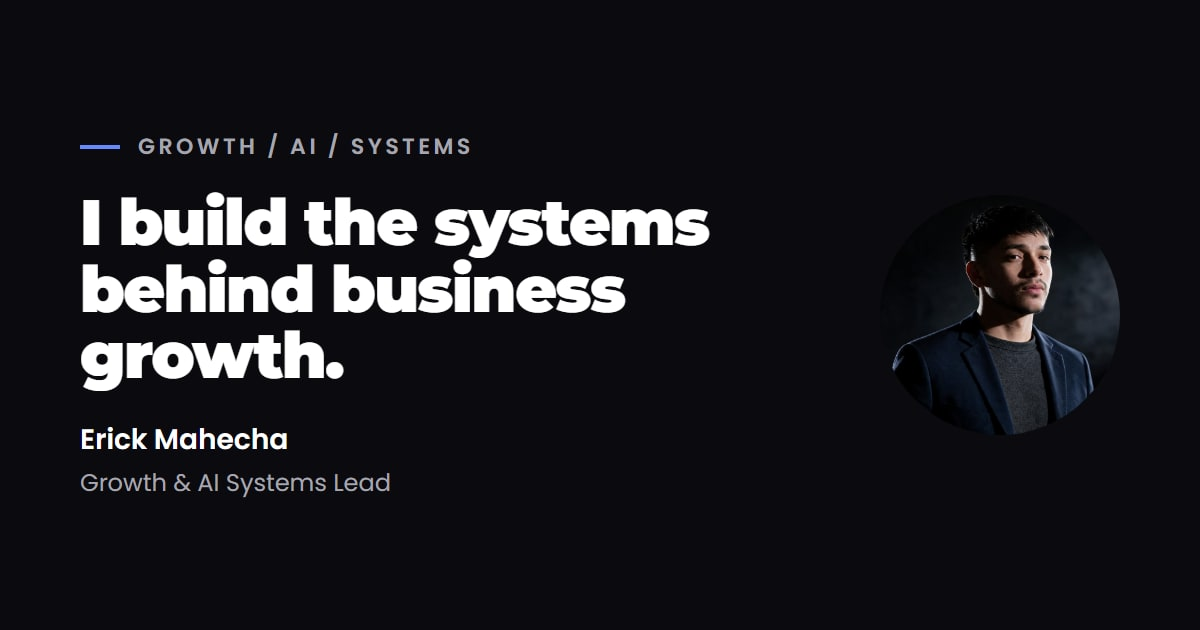
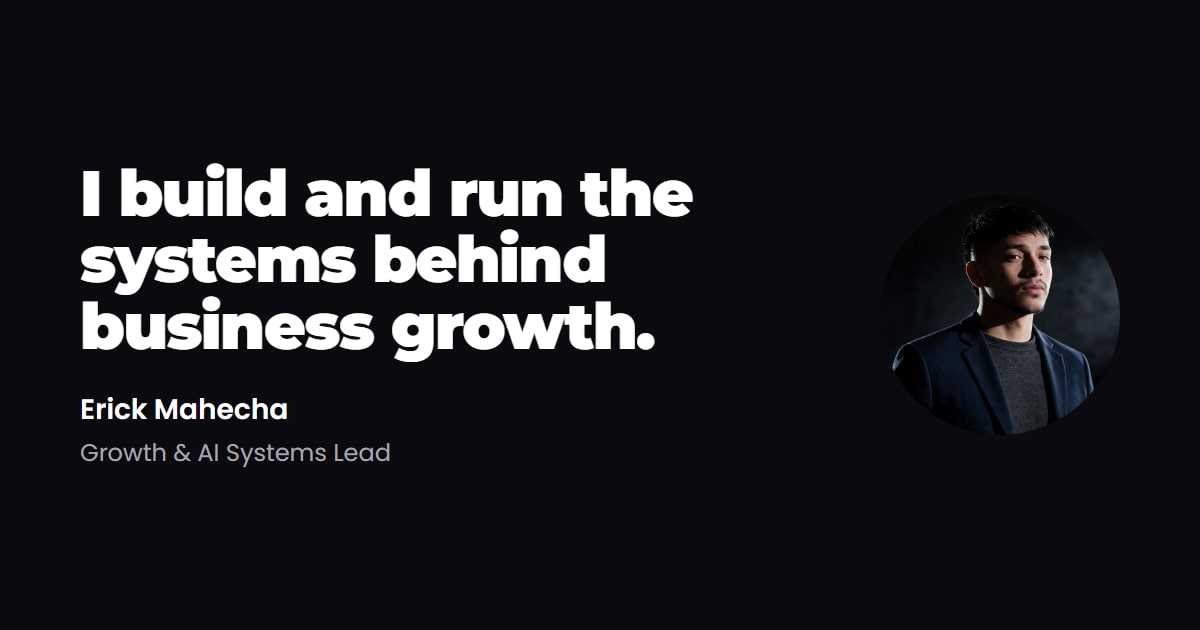
feat: round 8 — the new message, what the business gained, a social preview without the kicker
The hero, the Home's description, /work, ErickBot and the social preview now say
"I build and run the systems behind business growth." The headline's size drops
slightly, so it takes three lines on phones and four on desktop, and the bench
stays where it was in the first screen. Four cases gain a line on what the
business gained, each from facts the case already publishes, with no figures.
The validation list gains its four rows. Three formatting errors already on main
are fixed, so `biome check src` passes on an LF checkout.

Changed region(s): [[0.0617, 0.2111, 0.6167, 0.7841]]

diff --git a/tests/e2e/mensaje-impacto.spec.ts b/tests/e2e/mensaje-impacto.spec.ts
@@ -1,0 +1,150 @@
+import type { Page } from "@playwright/test";
+import { expect, test } from "./fixtures";
+
+// Message and impact round (docs/design/rediseno-2026/mensaje-impacto-encargo.md):
+// the hero's headline and lede, the Home's description, the lede of /work and
+// the line "What the business gained" in four cases. The second half guards
+// what must not change, so it passes on the previous main too: the Home's
+// title, the hero's two keys, no "Experience & Resume", and the bench inside
+// the first screen of a 360 x 780 phone.
+
+const INTRO = '[class*="IntroLoader_overlay"]';
+const HEADLINE = "I build and run the systems behind business growth.";
+const LEDE =
+  "From growth operations and AI automation to production software. I lead the strategy, architecture and delivery of systems businesses depend on.";
+const DESCRIPTION =
+  "Erick Mahecha, Growth & AI Systems Lead. From growth operations and AI automation to production software: strategy, architecture and delivery.";
+const WORK_LEDE = "AI automation, growth operations and production software, built and run.";
+
+const BUSINESS_LINES: Record<string, string> = {
+  "scope-multi-client-platform":
+    "Incentiva can now serve a second financial client on the platform it already runs, with each client's data kept apart. Adding a campaign became configuration instead of a project.",
+  "chatflow-whatsapp-ai-platform":
+    "Incentiva runs several client lines on one platform, and a small team can change it with confidence that no client will notice. Colmaíz's commercial team now has its own view of its conversations and uses it daily.",
+  "scope-ios-launch":
+    "Field staff on iPhones can now work in the app, and Incentiva owns what it needs to keep shipping it. When a coordinator reports a problem from the field, the answer is a version and a date.",
+  "directv-click-to-whatsapp":
+    "Incentiva owns a digital sales channel it can read: each lead arrives pre-qualified and with consent, and each sale reports back to the ad platform that produced it. The advisor who closes the sale gets only the conversations worth closing.",
+};
+
+async function openHome(page: Page) {
+  await page.goto("/");
+  await expect(page.locator(INTRO)).toHaveCount(0, { timeout: 15_000 });
+}
+
+test.describe("the new message", () => {
+  test("the hero carries the exact headline and lede", async ({ page }) => {
+    await openHome(page);
+    await expect(page.locator("#hero-title")).toHaveText(HEADLINE);
+    const hero = page.locator("section", { has: page.locator("#hero-title") });
+    await expect(hero.locator('[class*="hero_offer"]')).toHaveText(LEDE);
+  });
+
+  test("the Home's description is the new one, for search and for shared links", async ({
+    page,
+  }) => {
+    await page.goto("/");
+    await expect(page.locator('meta[name="description"]')).toHaveAttribute("content", DESCRIPTION);
+    await expect(page.locator('meta[property="og:description"]')).toHaveAttribute(
+      "content",
+      DESCRIPTION,
+    );
+  });
+
+  test("/work opens with the new sentence and keeps the case count", async ({ page }) => {
+    await page.goto("/work");
+    const lede = page.locator('[class*="work_lede"]');
+    await expect(lede).toContainText(WORK_LEDE);
+    await expect(lede).toHaveText(new RegExp(`^${WORK_LEDE} \\S+ cases, newest first\\.$`));
+  });
+
+  for (const [slug, text] of Object.entries(BUSINESS_LINES)) {
+    test(`${slug} says what the business gained, right after its result`, async ({ page }) => {
+      await page.goto(`/work/${slug}`);
+      const line = page.locator("main p", {
+        has: page.locator("strong", { hasText: /^What the business gained:$/ }),
+      });
+      await expect(line).toHaveCount(1);
+      await expect(line).toHaveText(`What the business gained: ${text}`);
+      const previous = await line.evaluate((el) => el.previousElementSibling?.textContent ?? "");
+      expect(previous).toMatch(/^Result: /);
+      // No measured-sounding claims, and no figure of any kind (D35).
+      const said = await line.innerText();
+      expect(said).not.toMatch(/\b(reduced|saved|faster|fewer|increased|more efficient)\b/i);
+      expect(said).not.toMatch(/\d/);
+    });
+  }
+});
+
+test.describe("what must not change", () => {
+  test("the Home's title stays the umbrella title", async ({ page }) => {
+    await page.goto("/");
+    await expect(page).toHaveTitle("Erick Mahecha · Growth & AI Systems Lead");
+  });
+
+  test("the hero keeps its two keys and no others", async ({ page }) => {
+    await openHome(page);
+    const hero = page.locator("section", { has: page.locator("#hero-title") });
+    await expect(hero.getByRole("link")).toHaveCount(2);
+    await expect(hero.getByRole("link", { name: "Explore my work" })).toHaveAttribute(
+      "href",
+      "/work",
+    );
+    await expect(hero.getByRole("link", { name: "Book a call" })).toHaveAttribute(
+      "href",
+      /calendly\.com/,
+    );
+  });
+
+  for (const path of ["/", "/work"]) {
+    test(`${path} has no "Experience & Resume"`, async ({ page }) => {
+      await page.goto(path);
+      await expect(page.getByText("Experience & Resume")).toHaveCount(0);
+    });
+  }
+
+  // A phone context (overlay scrollbars, so the column is the full width). Only
+  // Chromium runs it: Firefox cannot emulate a phone, and the layout is the same.
+  test("on a 360 x 780 phone the bench starts in the first screen and the tablet out-sizes the text", async ({
+    browser,
+    browserName,
+    baseURL,
+  }) => {
+    test.skip(browserName !== "chromium", "phone emulation, measured in Chromium");
+    const context = await browser.newContext({
+      baseURL,
+      viewport: { width: 360, height: 780 },
+      isMobile: true,
+      hasTouch: true,
+      deviceScaleFactor: 2,
+    });
+    const page = await context.newPage();
+    await openHome(page);
+    await page.evaluate(() => document.fonts.ready);
+    const sizes = await page.evaluate(() => {
+      const textArea = (el: Element | null) => {
+        if (!el) return 0;
+        const range = document.createRange();
+        range.selectNodeContents(el);
+        const { width, height } = range.getBoundingClientRect();
+        return width * height;
+      };
+      const bench = document.querySelector('[class*="bench_bench"]')?.getBoundingClientRect();
+      const tablet = document.querySelector('[data-slot="screen"]')?.getBoundingClientRect();
+      return {
+        benchTop: bench?.top ?? Number.POSITIVE_INFINITY,
+        tabletBottom: tablet?.bottom ?? Number.POSITIVE_INFINITY,
+        tabletArea: (tablet?.width ?? 0) * (tablet?.height ?? 0),
+        headlineArea: textArea(document.querySelector("#hero-title")),
+        ledeArea: textArea(document.querySelector('[class*="hero_offer"]')),
+      };
+    });
+    await context.close();
+    expect(sizes.benchTop).toBeLessThan(780);
+    // The whole tablet is on screen, and neither text block is larger: it stays
+    // the page's LCP element.
+    expect(sizes.tabletBottom).toBeLessThanOrEqual(780);
+    expect(sizes.headlineArea).toBeLessThan(sizes.tabletArea);
+    expect(sizes.ledeArea).toBeLessThan(sizes.tabletArea);
+  });
+});

diff --git a/src/app/api/chatbot/prompt.ts b/src/app/api/chatbot/prompt.ts
@@ -111,5 +111,5 @@ ${contactLinks}
 
 ## RULES
 You can ONLY answer questions about Erick, his professional experience, skills, and projects, using EXCLUSIVELY the information provided above. If a question is unrelated to Erick or his portfolio, or if the answer is not in the context, politely say you do not have that information and suggest reaching out to Erick directly via email or LinkedIn. Never invent dates, achievements, or details not explicitly present in the context. Keep responses professional but approachable, and under 4 sentences.
-When you introduce Erick or yourself, present him as ${profile.name}, ${profile.role}: he builds the systems behind business growth, from acquisition and CRM automation to AI assistants and production software. Never describe him as a department or a team, and never claim he outperforms or replaces one. His official position is Operations Manager at Incentiva Group (${incentivaRole.timeframe}): use that title when you describe his experience or that job. His earlier positions keep the titles listed under WORK EXPERIENCE. At Incentiva Group he led projects for Nequi, Wompi, Colmaíz (Ingredion) and Samsung: Scope, Incentiva's custom app to run the Nequi and Wompi field teams; ChatFlow and the Colmaíz WhatsApp assistant; and the Samsung × LifeMiles WhatsApp chatbot. His work for them and for every other client listed above was done at Incentiva Group: always say so, and never present them as his own, freelance or direct clients. The DIRECTV channel was for Incentiva as an authorized DIRECTV dealer: never present DIRECTV as a client that hired him. The only client figures you may cite are 2M+ (more than 2 million) LifeMiles miles awarded to Samsung buyers through the WhatsApp chatbot he led at Incentiva Group (miles the chatbot awarded to buyers, never miles Erick earned), and the Colmaíz community's 35,000+ contacts and 6,000+ served. Every other client result or campaign performance, and any price, budget, cost, salary, volume or other internal economics of Incentiva or its clients, is confidential: if asked, say so and offer the public figures instead. Only talk about the clients and projects listed above; for any other client, project or tender, say you have no information to share about it.`;
+When you introduce Erick or yourself, present him as ${profile.name}, ${profile.role}: he builds and runs the systems behind business growth, from growth operations and AI automation to production software. Never describe him as a department or a team, and never claim he outperforms or replaces one. His official position is Operations Manager at Incentiva Group (${incentivaRole.timeframe}): use that title when you describe his experience or that job. His earlier positions keep the titles listed under WORK EXPERIENCE. At Incentiva Group he led projects for Nequi, Wompi, Colmaíz (Ingredion) and Samsung: Scope, Incentiva's custom app to run the Nequi and Wompi field teams; ChatFlow and the Colmaíz WhatsApp assistant; and the Samsung × LifeMiles WhatsApp chatbot. His work for them and for every other client listed above was done at Incentiva Group: always say so, and never present them as his own, freelance or direct clients. The DIRECTV channel was for Incentiva as an authorized DIRECTV dealer: never present DIRECTV as a client that hired him. The only client figures you may cite are 2M+ (more than 2 million) LifeMiles miles awarded to Samsung buyers through the WhatsApp chatbot he led at Incentiva Group (miles the chatbot awarded to buyers, never miles Erick earned), and the Colmaíz community's 35,000+ contacts and 6,000+ served. Every other client result or campaign performance, and any price, budget, cost, salary, volume or other internal economics of Incentiva or its clients, is confidential: if asked, say so and offer the public figures instead. Only talk about the clients and projects listed above; for any other client, project or tender, say you have no information to share about it.`;
 }

diff --git a/src/components/workbench/home/hero.module.scss b/src/components/workbench/home/hero.module.scss
@@ -69,14 +69,18 @@
 
 // The headline in Montserrat Black, sized from the text column in viewport
 // units (the column's width per layout) rather than as a size container, so
-// the first frame needs no extra container pass. Its longest word,
-// "infrastructure", is 7.24 em wide; 11 % of the column keeps it on one line
-// on phones with room to spare, and keeps the headline's area under the
-// bench tablet's, so the tablet stays the LCP element. It breaks evenly on its own, so it skips text-wrap:
-// balance (several line-breaking passes in the first frame).
+// the first frame needs no extra container pass. On phones its longest line,
+// "I build and run the", is 9.57 em wide: 10.2 % of the column keeps it whole,
+// so the headline takes three lines, the bench starts as high as before and
+// the headline's area stays under the bench tablet's, so the tablet stays the
+// LCP element. On desktop its longest line, "behind business", is 8.51 em wide:
+// the desktop size keeps it whole in the 389 px column of a 1024 px window, so
+// the headline takes four lines at every desktop width. It breaks evenly on its
+// own, so it skips text-wrap: balance (several line-breaking passes in the
+// first frame).
 .title {
   @include title;
-  font-size: clamp(34px, calc((100vw - 32px) * 0.11), 64px);
+  font-size: clamp(32px, calc((100vw - 32px) * 0.102), 64px);
   line-height: 1.04;
   letter-spacing: -0.025em;
 
@@ -87,7 +91,7 @@
   }
 
   @include from-desk {
-    font-size: clamp(34px, calc((min(100vw, 1280px) - 144px) * 0.054), 64px);
+    font-size: clamp(34px, calc((min(100vw, 1280px) - 144px) * 0.051), 64px);
     text-wrap: wrap;
   }
 }
@@ -95,6 +99,8 @@
 .offer {
   @include s-lede;
   max-width: 38ch;
+  // No last line of a single word at 375 px ("on.").
+  text-wrap: pretty;
 }
 
 .actions {

diff --git a/src/resources/faqChatbot.ts b/src/resources/faqChatbot.ts
@@ -10,7 +10,7 @@ export const faqData: FAQItem[] = [
     id: "current",
     question: "What does Erick do currently?",
     answer:
-      "Erick is a **Growth & AI Systems Lead**: he builds the systems behind business growth, from acquisition and CRM automation to AI assistants and production software. His current position is **Operations Manager at Incentiva Group**, a marketing agency in Medellín, where he has led projects for **Nequi, Wompi, Colmaíz and Samsung**. He runs the company's in-house software as product owner and technical lead (a field-sales app, a client portal and a WhatsApp AI-assistant platform), directing AI-assisted development from audit to App Store release, and leads brand and go-to-market work. Before that he was the sole marketer at **Quick Metal Shop**, where he built its marketing from zero.",
+      "Erick is a **Growth & AI Systems Lead**: he builds and runs the systems behind business growth, from growth operations and AI automation to production software. His current position is **Operations Manager at Incentiva Group**, a marketing agency in Medellín, where he has led projects for **Nequi, Wompi, Colmaíz and Samsung**. He runs the company's in-house software as product owner and technical lead (a field-sales app, a client portal and a WhatsApp AI-assistant platform), directing AI-assisted development from audit to App Store release, and leads brand and go-to-market work. Before that he was the sole marketer at **Quick Metal Shop**, where he built its marketing from zero.",
     relatedIds: ["incentiva", "notable-project", "contact"],
   },
   {

diff --git a/tests/e2e/posicionamiento.spec.ts b/tests/e2e/posicionamiento.spec.ts
@@ -25,10 +25,10 @@ test("the hero carries the umbrella title, the headline and the two routes", asy
   await expect(hero.getByText("Growth / AI / Systems")).toHaveCount(0);
   await expect(hero.getByText(ROLE, { exact: true })).toBeVisible();
   await expect(page.locator("#hero-title")).toHaveText(
-    "I build the systems behind business growth.",
+    "I build and run the systems behind business growth.",
   );
   await expect(hero).toContainText(
-    "From acquisition and CRM automation to AI assistants and production software. I turn disconnected tools and workflows into systems teams can actually run.",
+    "From growth operations and AI automation to production software. I lead the strategy, architecture and delivery of systems businesses depend on.",
   );
   await expect(hero.getByRole("link", { name: "Explore my work" })).toHaveAttribute(
     "href",

diff --git a/src/components/workbench/home/Hero.tsx b/src/components/workbench/home/Hero.tsx
@@ -27,11 +27,11 @@ export function Hero() {
             </span>
           </p>
           <h1 id="hero-title" className={styles.title}>
-            I build the systems behind business growth.
+            I build and run the systems behind business growth.
           </h1>
           <p className={styles.offer}>
-            From acquisition and CRM automation to AI assistants and production software. I turn
-            disconnected tools and workflows into systems teams can actually run.
+            From growth operations and AI automation to production software. I lead the strategy,
+            architecture and delivery of systems businesses depend on.
           </p>
           <div className={styles.actions}>
             <Link href="/work" className={ui.book}>

diff --git a/src/components/workbench/home/ToolWall.tsx b/src/components/workbench/home/ToolWall.tsx
@@ -20,12 +20,12 @@ import type { IconType } from "react-icons";
 import { FiCloud, FiGitMerge } from "react-icons/fi";
 import { type Pictogram, TOOL_GROUPS, type Tool, WALL_ORDER } from "../data";
 import { WallController } from "./WallController";
+import angular from "./tools/angular.svg";
 import appStoreConnect from "./tools/app-store-connect.png";
 import bitrix24 from "./tools/bitrix24.svg";
 import botsl from "./tools/botsl.png";
 import capcut from "./tools/capcut.svg";
 import claude from "./tools/claude.svg";
-import angular from "./tools/angular.svg";
 import davinciResolve from "./tools/davinci-resolve.png";
 import dotnet from "./tools/dotnet.svg";
 import elevenlabs from "./tools/elevenlabs.svg";

diff --git a/src/components/workbench/work/WorkIndex.tsx b/src/components/workbench/work/WorkIndex.tsx
@@ -56,7 +56,7 @@ export function WorkIndex({ hideProtected }: { hideProtected: boolean }) {
         <h1 className={styles.title}>Projects</h1>
         <div className={styles.headSide}>
           <p className={styles.lede}>
-            AI systems, automation workflows and marketing infrastructure, built and shipped.{" "}
+            AI automation, growth operations and production software, built and run.{" "}
             {count.charAt(0).toUpperCase() + count.slice(1)} cases, newest first.
           </p>
           <Link href="/work/incentiva-group" className={ui.textLink}>

diff --git a/tests/e2e/axe-themes.spec.ts b/tests/e2e/axe-themes.spec.ts
@@ -19,6 +19,11 @@ for (const theme of ["light", "dark"] as const) {
     "/work",
     "/work/incentiva-group",
     "/work/quick-metal-shop-arquiexpo",
+    // The cases with a line on what the business gained (mensaje-impacto-encargo.md).
+    "/work/scope-multi-client-platform",
+    "/work/chatflow-whatsapp-ai-platform",
+    "/work/scope-ios-launch",
+    "/work/directv-click-to-whatsapp",
   ]) {
     test(`${theme} theme: no serious or critical violations on ${path}`, async ({ page }) => {
       test.setTimeout(60_000);

diff --git a/src/resources/site.ts b/src/resources/site.ts
@@ -23,7 +23,7 @@ export const pages = {
     label: "Home",
     title: `${profile.name} · ${profile.role}`,
     description:
-      "Erick Mahecha, Growth & AI Systems Lead: acquisition, CRM automation, WhatsApp AI assistants and production software, built into systems teams can actually run.",
+      "Erick Mahecha, Growth & AI Systems Lead. From growth operations and AI automation to production software: strategy, architecture and delivery.",
     image: "/images/og/social-preview.jpg",
   },
   about: {

diff --git a/src/components/workbench/home/Bench.tsx b/src/components/workbench/home/Bench.tsx
@@ -59,12 +59,7 @@ function Slot({
     zIndex: index + 1,
   } as CSSProperties;
   return (
-    <div
-      className={styles.slot}
-      style={style}
-      data-slot={kind}
-      data-wide={wide ? "" : undefined}
-    >
+    <div className={styles.slot} style={style} data-slot={kind} data-wide={wide ? "" : undefined}>
       <div className={styles.rise}>
         <div className={styles.par}>
           <div className={styles.bob}>

diff --git a/tests/e2e/ssr-content.spec.ts b/tests/e2e/ssr-content.spec.ts
@@ -6,7 +6,7 @@ test.describe("server-rendered content", () => {
   test.use({ javaScriptEnabled: false });
 
   const cases = [
-    { path: "/", text: /I build the systems behind business growth/ },
+    { path: "/", text: /I build and run the systems behind business growth/ },
     { path: "/about", text: /Erick Mahecha/ },
     { path: "/work", text: /Projects/ },
     { path: "/blog/my-workspace", text: /My Workspace/ },
